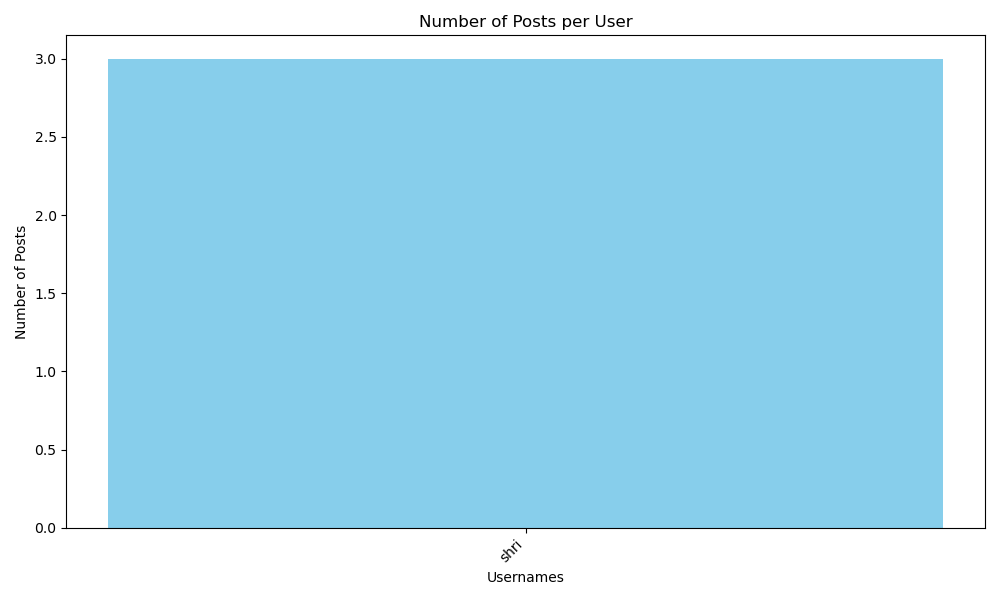
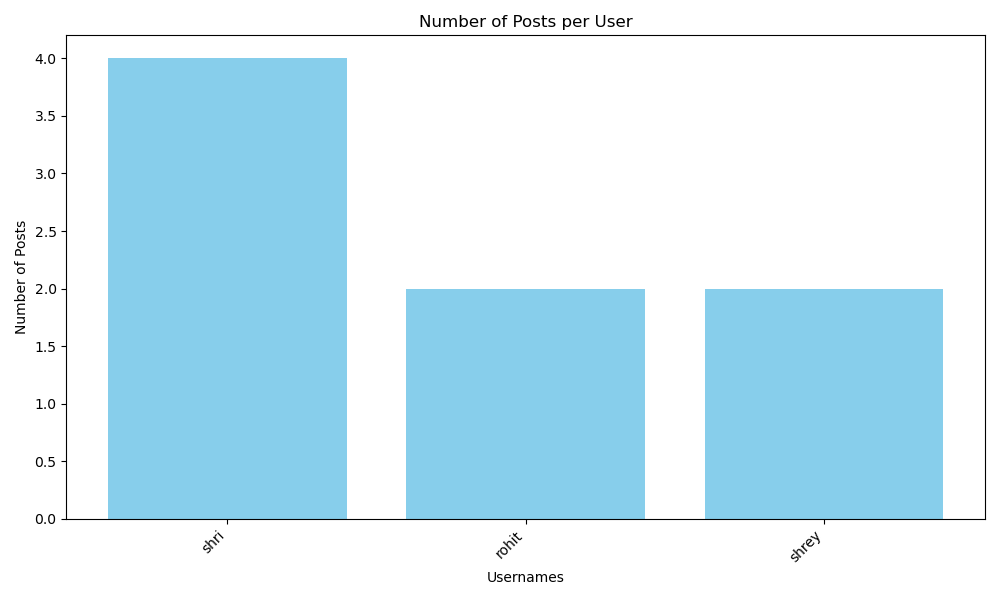
implemented summary functionality

diff --git a/templates/summary.html b/templates/summary.html
@@ -1,0 +1,14 @@
+<!DOCTYPE html>
+<html lang="en">
+<head>
+    <meta charset="UTF-8">
+    <meta name="viewport" content="width=device-width, initial-scale=1.0">
+    <title>Summary</title>
+</head>
+<body>
+    <h1>Summary: User Post graph</h1>
+    <div>
+        <img src="{{ graph_url}}" alt="User Post graph">
+    </div>>
+</body>
+</html>
